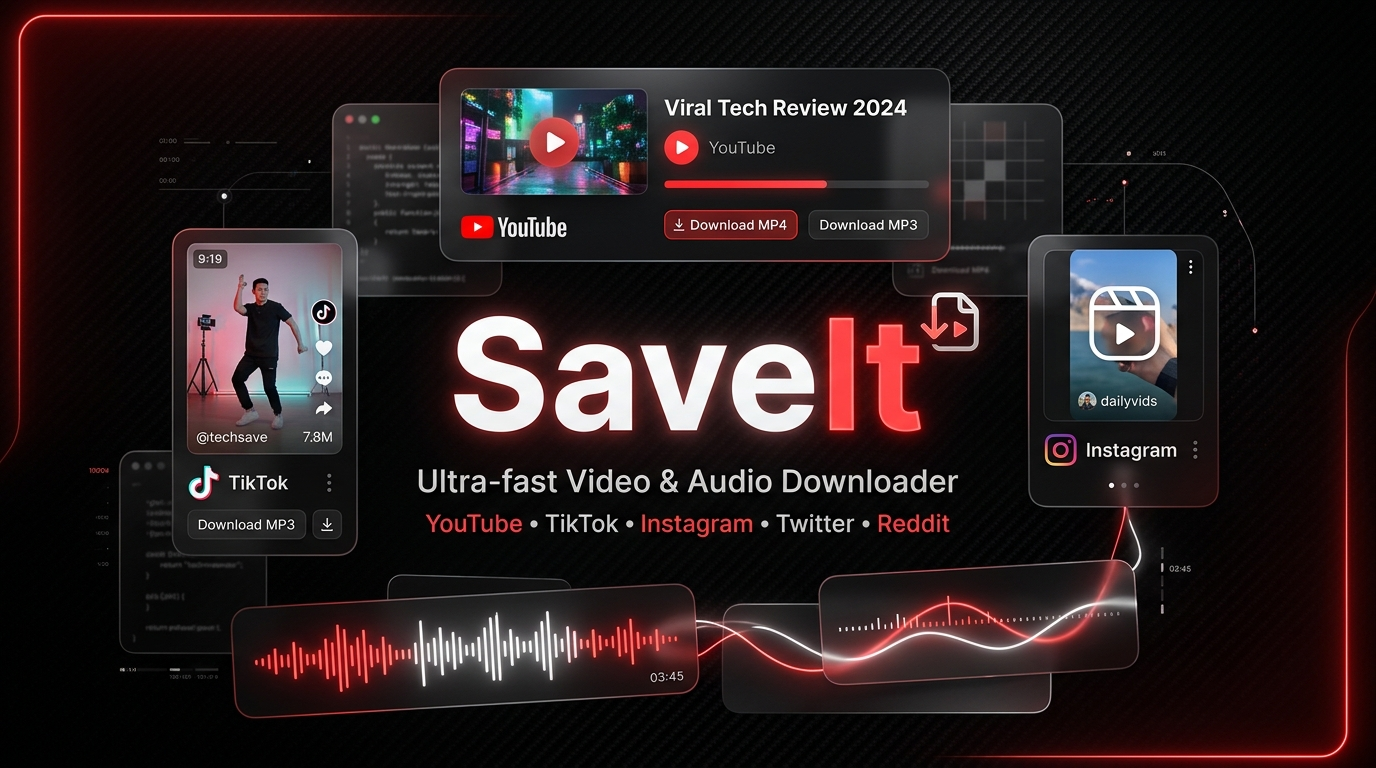
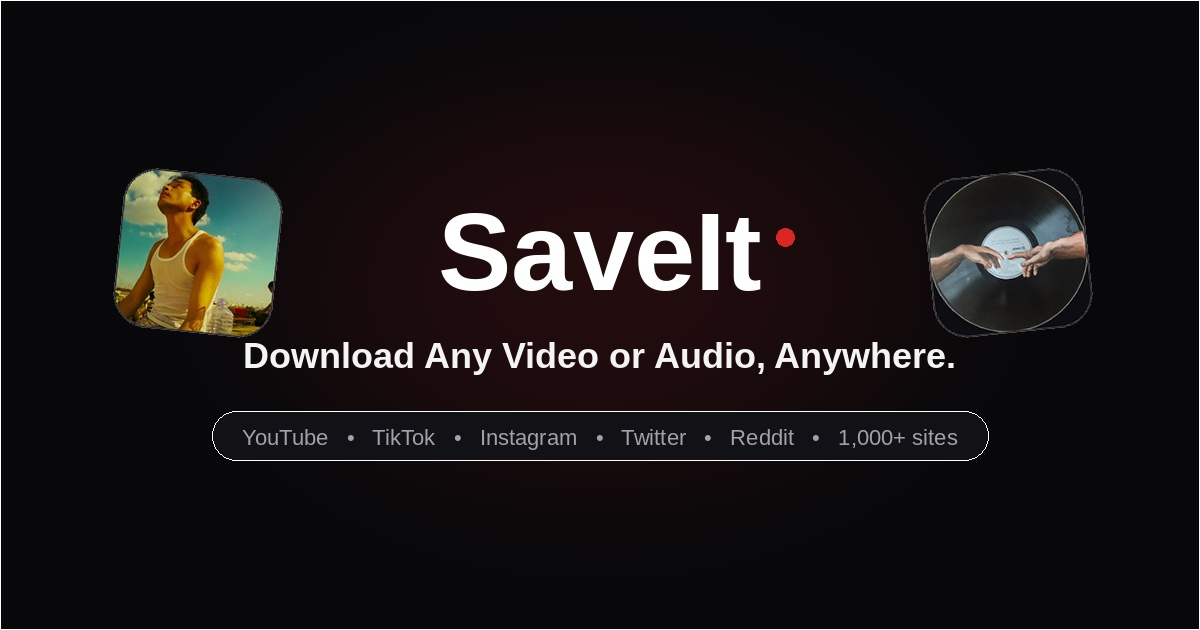
feat(ui): remove mascots, point tip drawer at saveit slug, fix iframe transparency via dark color-scheme, drop shadows, new minimal OG

diff --git a/static/style.css b/static/style.css
@@ -7,6 +7,7 @@
 }
 
 :root {
+  color-scheme: dark;
   --bg: #000000;
   --surface: rgba(18, 18, 18, 0.65);
   --surface2: rgba(26, 26, 26, 0.7);
@@ -32,141 +33,6 @@ body {
   overflow-x: hidden;
 }
 
-
-.decorations {
-  position: absolute;
-  inset: 0;
-  pointer-events: none;
-  z-index: 1;
-  overflow: hidden;
-}
-
-.decor-block-left {
-  position: absolute;
-  top: 10%;
-  left: -12vw;
-  height: 80vh;
-  mix-blend-mode: screen;
-  opacity: 0.85;
-  z-index: 0;
-  animation: float-left 8s ease-in-out infinite alternate;
-}
-
-.decor-block-right {
-  position: absolute;
-  top: 10%;
-  right: -12vw;
-  height: 80vh;
-  mix-blend-mode: screen;
-  opacity: 0.85;
-  transform: scaleX(-1);
-  z-index: 0;
-  animation: float-right 9s ease-in-out infinite alternate;
-}
-
-@keyframes float-left {
-  0% {
-    transform: translateY(0) rotate(0deg);
-  }
-
-  100% {
-    transform: translateY(-20px) rotate(2deg);
-  }
-}
-
-@keyframes float-right {
-  0% {
-    transform: scaleX(-1) translateY(0) rotate(0deg);
-  }
-
-  100% {
-    transform: scaleX(-1) translateY(-20px) rotate(-2deg);
-  }
-}
-
-.decor {
-  position: absolute;
-  z-index: 5;
-  filter: drop-shadow(0 20px 40px rgba(0, 0, 0, 0.7));
-  will-change: transform, opacity;
-  animation-duration: 1.2s;
-  animation-timing-function: cubic-bezier(0.175, 0.885, 0.32, 1.275);
-  animation-fill-mode: forwards;
-  opacity: 0;
-}
-
-.decor-1 {
-  bottom: -10px;
-  left: 1%;
-  max-width: 145px;
-  animation-name: popDecor1;
-  animation-delay: 0.1s;
-}
-
-@keyframes popDecor1 {
-  0% { transform: translate(-300px, 300px) rotate(-30deg) scale(0.6); opacity: 0; }
-  100% { transform: translate(0, 0) rotate(8deg) scale(1); opacity: 1; }
-}
-
-.decor-2 {
-  top: 1%;
-  right: 0.5%;
-  max-width: 170px;
-  animation-name: popDecor2;
-  animation-delay: 0.3s;
-}
-
-@keyframes popDecor2 {
-  0% { transform: translate(300px, -300px) rotate(45deg) scale(0.6); opacity: 0; }
-  100% { transform: translate(0, 0) rotate(-6deg) scale(1.05); opacity: 1; }
-}
-
-.decor-3 {
-  top: 45%;
-  left: -35px;
-  max-width: 135px;
-  animation-name: popDecor3;
-  animation-delay: 0.5s;
-}
-
-@keyframes popDecor3 {
-  0% { transform: translate(-300px, 0) rotate(-45deg) scale(0.5); opacity: 0; }
-  100% { transform: translate(0, 0) rotate(14deg) scale(1.1); opacity: 1; }
-}
-
-.decor-4 {
-  bottom: 40px;
-  right: 2%;
-  max-width: 190px;
-  animation-name: popDecor4;
-  animation-delay: 0.7s;
-}
-
-@keyframes popDecor4 {
-  0% { transform: translate(300px, 300px) rotate(25deg) scale(0.6); opacity: 0; }
-  100% { transform: translate(0, 0) rotate(-3deg) scale(0.95); opacity: 1; }
-}
-
-.decor-5 {
-  top: 2%;
-  left: 1%;
-  max-width: 125px;
-  animation-name: popDecor5;
-  animation-delay: 0.9s;
-}
-
-@keyframes popDecor5 {
-  0% { transform: translate(-200px, -300px) rotate(-25deg) scale(0.5); opacity: 0; }
-  100% { transform: translate(0, 0) rotate(-18deg) scale(1); opacity: 1; }
-}
-
-@media (max-width: 1100px) {
-  .decorations {
-    opacity: 0.2;
-  }
-
-  /* Keep them but faded on mobile */
-}
 
 /* Layout */
 .hero,
@@ -209,14 +75,12 @@ body {
   border: 1px solid rgba(255, 255, 255, 0.14);
   border-radius: 100px;
   padding: 6px 6px 6px 24px;
-  box-shadow: 0 10px 40px rgba(0, 0, 0, 0.6);
   transition: all 0.3s cubic-bezier(0.175, 0.885, 0.32, 1.275);
 }
 
 .input-wrap:focus-within {
   background: rgba(24, 24, 27, 0.9);
-  border-color: rgba(239, 68, 68, 0.5);
-  box-shadow: 0 0 0 2px rgba(239, 68, 68, 0.25), 0 15px 45px rgba(0, 0, 0, 0.8);
+  border-color: rgba(220, 38, 38, 0.6);
   transform: translateY(-2px);
 }
 
@@ -237,7 +101,7 @@ body {
 }
 
 .btn-primary {
-  background: #ef4444;
+  background: #b91c1c;
   color: #ffffff;
   border: none;
   border-radius: 100px;
@@ -248,13 +112,11 @@ body {
   cursor: pointer;
   white-space: nowrap;
   transition: all 0.2s cubic-bezier(0.16, 1, 0.3, 1);
-  box-shadow: 0 4px 14px rgba(239, 68, 68, 0.3);
 }
 
 .btn-primary:hover {
-  background: #dc2626;
+  background: #991b1b;
   transform: scale(1.02);
-  box-shadow: 0 6px 20px rgba(239, 68, 68, 0.45);
 }
 
 .btn-primary:active {

diff --git a/templates/index.html b/templates/index.html
@@ -26,12 +26,6 @@
 
 <body>
 
-    <div class="decorations" aria-hidden="true">
-        <img src="/static/animate5.png" class="decor decor-5" alt="" />
-        <img src="/static/animate2.png" class="decor decor-2" alt="" />
-        <img src="/static/animate.png" class="decor decor-1" alt="" />
-    </div>
-
     <header class="hero">
         <h1>Download Any <span class="rotator-container"><span class="rotator-word active">Video</span><span class="rotator-word next">Audio</span></span> <span class="hero-sq hero-sq-1" title="Video"><img src="/static/sq-video.jpg" alt="" /></span><br />Anywhere <span class="hero-sq hero-sq-2" title="Audio"><img src="/static/sq-audio.jpg" alt="" /></span></h1>
         <p>Paste a link from YouTube, TikTok, Instagram, Twitter, Reddit, and 1,000+ sites. Download crisp video or extract audio in seconds.
@@ -621,30 +615,9 @@
             }, 2600);
         })();
 
-        // Support widget custom button click handler
-        document.addEventListener('click', (e) => {
-            const btn = e.target.closest('#tipBtn');
-            if (btn) {
-                const defaultBtn = document.getElementById('myhappr-floating-btn');
-                if (defaultBtn) defaultBtn.click();
-            }
-        });
     </script>
 
-    <!-- Custom Floating Tip Button -->
-    <button type="button" class="tip-pill-btn" id="tipBtn"
-        data-myhappr-username="samueltuoyo"
-        data-myhappr-color="#dc2626"
-        data-myhappr-button-color="#dc2626"
-        data-myhappr-text-color="#FFFFFF"
-        data-myhappr-radius="9999px"
-        data-myhappr-text="Support SaveIt"
-        data-myhappr-title="Support SaveIt"
-        data-myhappr-theme="transparent"
-        data-myhappr-card-bg="#121214"
-        data-myhappr-card-text="#ffffff"
-        data-myhappr-font="Inter"
-        aria-label="Support SaveIt">
+    <button type="button" class="tip-pill-btn" id="tipBtn" aria-label="Support SaveIt">
         <span class="tip-icon-circle">
             <svg class="tip-hand-icon" width="14" height="14" viewBox="0 0 24 24" fill="none" stroke="currentColor" stroke-width="2.2" stroke-linecap="round" stroke-linejoin="round" aria-hidden="true">
                 <path d="M11 14h2a2 2 0 1 0 0-4h-3c-.6 0-1.1.2-1.4.6L3 16"></path>
@@ -664,9 +637,31 @@
         data-text="Support SaveIt"
         data-title="Support SaveIt"
         data-theme="transparent"
-        data-card-bg="#121214"
+        data-card-bg="#000000"
         data-card-text="#ffffff"
         data-font="Inter"></script>
+
+    <script>
+        // widget.js encodes the username into one path segment, so it cannot reach
+        // /embed/samueltuoyo/saveit. We reuse its drawer and iframe (so payment
+        // messages and close handling keep working) but load the slug URL ourselves.
+        (() => {
+            const iframe = document.getElementById('myhappr-modal-iframe');
+            const overlay = document.getElementById('myhappr-modal-overlay');
+            const closeBtn = document.getElementById('myhappr-modal-close');
+            if (!iframe || !overlay) return;
+
+            const url = new URL(iframe.src);
+            url.pathname = '/embed/samueltuoyo/saveit';
+            iframe.src = url.href;
+
+            document.getElementById('tipBtn').addEventListener('click', () => {
+                overlay.classList.add('myhappr-open');
+                document.body.style.overflow = 'hidden';
+                if (closeBtn) closeBtn.focus();
+            });
+        })();
+    </script>
 </body>
 
 </html>
